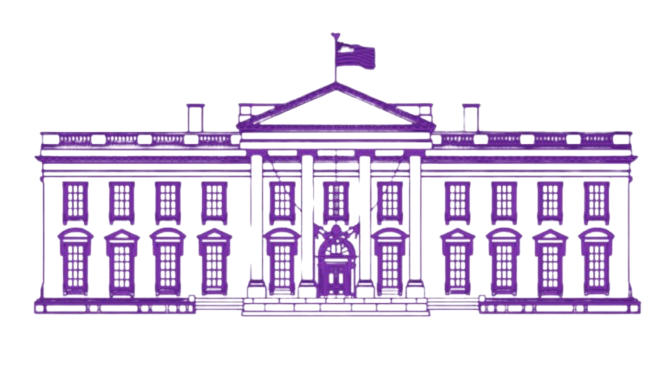
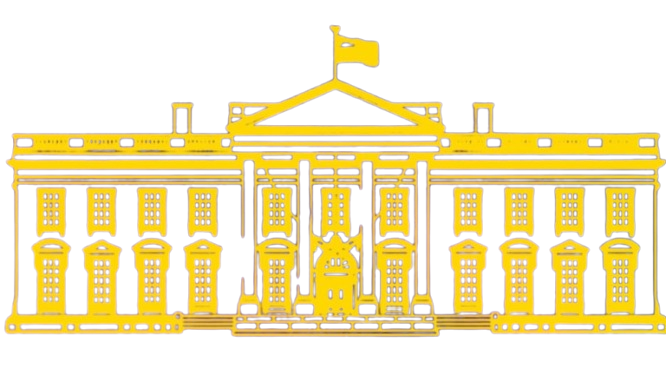
bg images flipcards

diff --git a/src/pages/AugustConference.jsx b/src/pages/AugustConference.jsx
@@ -17,6 +17,23 @@ const committeesData = [
     tier: 'Tier 1 - Expert Level (Recommended for Pro Delegates)',
     committees: [
       {
+        name: 'WHSR',
+        fullForm: 'White House Situation Room',
+        logo: '/committees_images/whsr.png',
+        agenda:
+          'America Under Attack – The 9/11 Crisis Response (Freeze Date: September 11, 2001, 10:30 AM EST).',
+        eb: [
+          { designation: 'Chairperson', name: 'Abhay Nair' },
+          { designation: 'Vice-Chairperson', name: 'Devansh Agarwal' },
+          { designation: 'Rapporteur', name: 'Taniha Alpha Fernandes' },
+        ],
+        label: 'Zero Hour',
+        backgroundGuide: '/pdfs/whsr.pdf',
+        subInfo: 'Crisis Committee, National Security',
+        frontImage: '/committees_images/whsr_front.jpg',
+        backImage: '/committees_images/whsr_back.jpg',
+      },
+      {
         name: 'INTERPOL',
         fullForm: 'International Criminal Police Organization',
         logo: '/committees_images/interpol.png',
@@ -29,6 +46,8 @@ const committeesData = [
         ],
         backgroundGuide: '/pdfs/interpol.pdf',
         subInfo: 'General Committee, Law Enforcement',
+        frontImage: '/committees_images/interpol_front.jpg',
+        backImage: '/committees_images/interpol_back.jpg',
       },
       {
         name: 'UNSC',
@@ -42,6 +61,8 @@ const committeesData = [
         ],
         backgroundGuide: '/pdfs/unsc.pdf',
         subInfo: 'General Committee, Security',
+        frontImage: '/committees_images/unsc_front.jpg',
+        backImage: '/committees_images/unsc_back.jpg',
       },
       {
         name: 'NATO',
@@ -56,21 +77,8 @@ const committeesData = [
         ],
         backgroundGuide: '/pdfs/nato.pdf',
         subInfo: 'General Committee, Security & Defense',
-      },
-      {
-        name: 'WHSR',
-        fullForm: 'White House Situation Room',
-        logo: '/committees_images/whsr.png',
-        agenda:
-          'America Under Attack – The 9/11 Crisis Response (Freeze Date: September 11, 2001, 10:30 AM EST).',
-        eb: [
-          { designation: 'Chairperson', name: 'Abhay Nair' },
-          { designation: 'Vice-Chairperson', name: 'Devansh Agarwal' },
-          { designation: 'Rapporteur', name: 'Taniha Alpha Fernandes' },
-        ],
-        label: 'Zero Hour',
-        backgroundGuide: '/pdfs/whsr.pdf',
-        subInfo: 'Crisis Committee, National Security',
+        frontImage: '/committees_images/nato_front.jpg',
+        backImage: '/committees_images/nato_back.jpg',
       },
       {
         name: 'WHO',
@@ -85,6 +93,8 @@ const committeesData = [
         ],
         backgroundGuide: '/pdfs/who.pdf',
         subInfo: 'General-Crisis Hybrid Committee, Global Health & Emergency Response',
+        frontImage: '/committees_images/who_front.jpg',
+        backImage: '/committees_images/who_back.jpg',
       },
     ],
   },
@@ -103,6 +113,8 @@ const committeesData = [
         ],
         backgroundGuide: '/pdfs/ccc.pdf',
         subInfo: 'Crisis Committee, Historical-Political',
+        frontImage: '/committees_images/ccc_front.jpg',
+        backImage: '/committees_images/ccc_back.jpg',
       },
       {
         name: 'ECOFIN',
@@ -117,6 +129,8 @@ const committeesData = [
         ],
         backgroundGuide: '/pdfs/ecofin.pdf',
         subInfo: 'General Committee, Economics & Finance',
+        frontImage: '/committees_images/ecofin_front.jpg',
+        backImage: '/committees_images/ecofin_back.jpg',
       },
       {
         name: 'IPM',
@@ -129,6 +143,8 @@ const committeesData = [
         ],
         backgroundGuide: '/pdfs/ipm.pdf',
         subInfo: 'Press Committee, Journalism & Media',
+        frontImage: '/committees_images/ipm_front.jpg',
+        backImage: '/committees_images/ipm_back.jpg',
       },
       {
         name: 'LS',
@@ -143,6 +159,8 @@ const committeesData = [
         ],
         backgroundGuide: '/pdfs/lok_sabha.pdf',
         subInfo: 'Indian General Committee, Governance & Policy',
+        frontImage: '/committees_images/ls_front.jpg',
+        backImage: '/committees_images/ls_back.jpg',
       },
       {
         name: 'UNFCCC',
@@ -157,6 +175,8 @@ const committeesData = [
         ],
         backgroundGuide: '/pdfs/unfccc.pdf',
         subInfo: 'General Committee, Climate & Sustainability',
+        frontImage: '/committees_images/unfccc_back.jpg',
+        backImage: '/committees_images/unfccc_front.jpg',
       },
     ],
   },
@@ -177,6 +197,8 @@ const committeesData = [
         label: 'Case',
         backgroundGuide: '/pdfs/icj.pdf',
         subInfo: 'Judicial Committee, International Law',
+        frontImage: '/committees_images/icj_front.jpg',
+        backImage: '/committees_images/icj_back.jpg',
       },
       {
         name: 'UNGA:DISEC',
@@ -192,6 +214,8 @@ const committeesData = [
         ],
         backgroundGuide: '/pdfs/unga_disec.pdf',
         subInfo: 'General Committee, Peace & Security',
+        frontImage: '/committees_images/unga_disec_front.jpg',
+        backImage: '/committees_images/unga_disec_back.jpg',
       },
       {
         name: 'FGF',
@@ -206,6 +230,8 @@ const committeesData = [
         ],
         backgroundGuide: '/pdfs/fgf.pdf',
         subInfo: 'General Committee, Business & Geopolitics',
+        frontImage: '/committees_images/fgf_front.jpg',
+        backImage: '/committees_images/fgf_back.jpg',
       },
       {
         name: 'MOM',
@@ -219,6 +245,8 @@ const committeesData = [
         ],
         backgroundGuide: '/pdfs/mom.pdf',
         subInfo: 'Fictional Committee, Harry potter & Wizard Affairs',
+        frontImage: '/committees_images/mom_front.jpg',
+        backImage: '/committees_images/mom_back.jpg',
       },
       {
         name: 'INCOSPAR',
@@ -232,6 +260,8 @@ const committeesData = [
         ],
         backgroundGuide: '/pdfs/incospar.pdf',
         subInfo: ' Historic Committee, Science & Diplomacy',
+        frontImage: '/committees_images/incospar_front.jpg',
+        backImage: '/committees_images/incospar_back.jpg',
       },
     ],
   },
@@ -241,6 +271,17 @@ const CommitteeCard = ({ committee }) => {
   const [flipped, setFlipped] = useState(false);
   const toggleFlip = () => setFlipped(!flipped);
 
+    // // fallback image paths
+    // const defaultFrontImage = '/images/default-front.jpg';
+    // const defaultBackImage = '/images/default-back.jpg';
+  
+    // // Use the images from the committee data if available
+    // const frontImage = committee.frontImage || defaultFrontImage;
+    // const backImage = committee.backImage || defaultBackImage;
+
+    const frontImage = committee.frontImage ;
+    const backImage = committee.backImage ;
+
   return (
     <div
       className={`committee-card ${flipped ? 'flipped' : ''}`}
@@ -248,7 +289,10 @@ const CommitteeCard = ({ committee }) => {
     >
       <div className="flip-card-inner">
         {/* Front face */}
-        <div className="flip-card-front">
+        <div 
+          className="flip-card-front"
+          style={{ backgroundImage: `url(${frontImage})` }}
+        >
           <div className="committee-front-container">
             <div className="committee-logo-container">
               <img
@@ -268,7 +312,10 @@ const CommitteeCard = ({ committee }) => {
         </div>
 
         {/* Back face */}
-        <div className="flip-card-back">
+        <div 
+          className="flip-card-back"
+          style={{ backgroundImage: `url(${backImage})` }}
+        >
           <div className="flip-card-back-content">
             {committee.name !== 'IPM' && (
               <p className="committee-agenda">
@@ -337,7 +384,7 @@ const AugustConference = () => {
     <>
       <Navbar classname="text-white bg-black" />
       <div className="aug-conference-page mt-26">
-        <section className="conference-details font-['FlatterySerif']">
+        <section className="conference-details">
           <h1>{conferenceDetails.name}</h1>
           <p className="fade-animation delay-1">
             <strong>Venue:</strong> {conferenceDetails.venue}
@@ -362,10 +409,10 @@ const AugustConference = () => {
         </section>
 
         <section className="committees-section">
-          <h2 className="section-title font-['FlatterySerif']">Committees</h2>
+          <h2 className="section-title">Committees</h2>
           {filteredData.map((tierData, index) => (
             <div key={index} className="tier-section">
-              <h3 className="tier-title font-['FlatterySerif']">{tierData.tier}</h3>
+              <h3 className="tier-title">{tierData.tier}</h3>
               <div className="committees-grid">
                 {tierData.committees.map((committee, idx) => (
                   <CommitteeCard key={idx} committee={committee} />

diff --git a/src/pages/AugustConference.css b/src/pages/AugustConference.css
@@ -187,7 +187,8 @@
   position: absolute;
   width: 100%;
   height: 100%;
-  backface-visibility: hidden;
+  -webkit-backface-visibility: hidden !important;
+  backface-visibility: hidden !important;
   border: 2px solid var(--border-gray);
   border-radius: 16px;
   overflow: hidden;
@@ -197,7 +198,10 @@
 
 /* front face */
 .flip-card-front {
-  background: linear-gradient(135deg, var(--flip-front-start), var(--flip-front-end));
+  background-color: var(--bg-cream);
+  background-size: cover;
+  background-repeat: no-repeat;
+  background-position: center;
   display: flex;
   align-items: center;
 }
@@ -253,22 +257,24 @@
 
 .committee-fullform {
   font-size: clamp(0.9rem, 2.5vw, 1.1rem);
-  color: #5D4037;
+  color: #2c1e1a;
   font-style: italic;
   margin: 0;
 }
 
 .committee-subinfo {
   font-size: clamp(0.8rem, 2vw, 0.9rem);
-  color: #5D4037;  
+  color: #2c1e1a;  
   font-style: italic;
   margin: 0;
   margin-top: 4px;
 }
-
-/* Flip card back */
+/*flip card back*/
 .flip-card-back {
-  background: linear-gradient(135deg, var(--flip-back-start), var(--flip-back-end));
+  background-color: var(--bg-cream);  /* fallback */
+  background-size: cover;
+  background-repeat: no-repeat;
+  background-position: center;
   transform: rotateY(180deg);
   padding-top: 20px;
   color: var(--text-color);
@@ -276,10 +282,10 @@
   display: flex;
   flex-direction: column;
   justify-content: space-between;
-  overflow: hidden; 
+  overflow: hidden;
 }
 
-/* Content area that scrolls */
+/* content area that scrolls */
 .flip-card-back-content {
   flex-grow: 1;
   overflow-y: scroll; 
@@ -424,3 +430,35 @@
 .fade-animation.delay-4 {
   animation-delay: 3.5s;
 }
+
+.flip-card-front::before {
+  content: "";
+  position: absolute;
+  top: 0;
+  left: 0;
+  width: 100%;
+  height: 100%;
+  background-color: rgba(0, 0, 0, 0.15); 
+  z-index: 1;
+  pointer-events: none; 
+}
+
+.flip-card-back::before {
+  content: "";
+  position: absolute;
+  top: 0;
+  left: 0;
+  width: 100%;
+  height: 100%;
+  background-color: rgba(0, 0, 0, 0.28); 
+  z-index: 1;
+  pointer-events: none;
+}
+
+/* .committee-front-container,
+.flip-card-back-content,
+.background-guide-btn {
+  position: relative;
+  z-index: 2;
+} */
+
